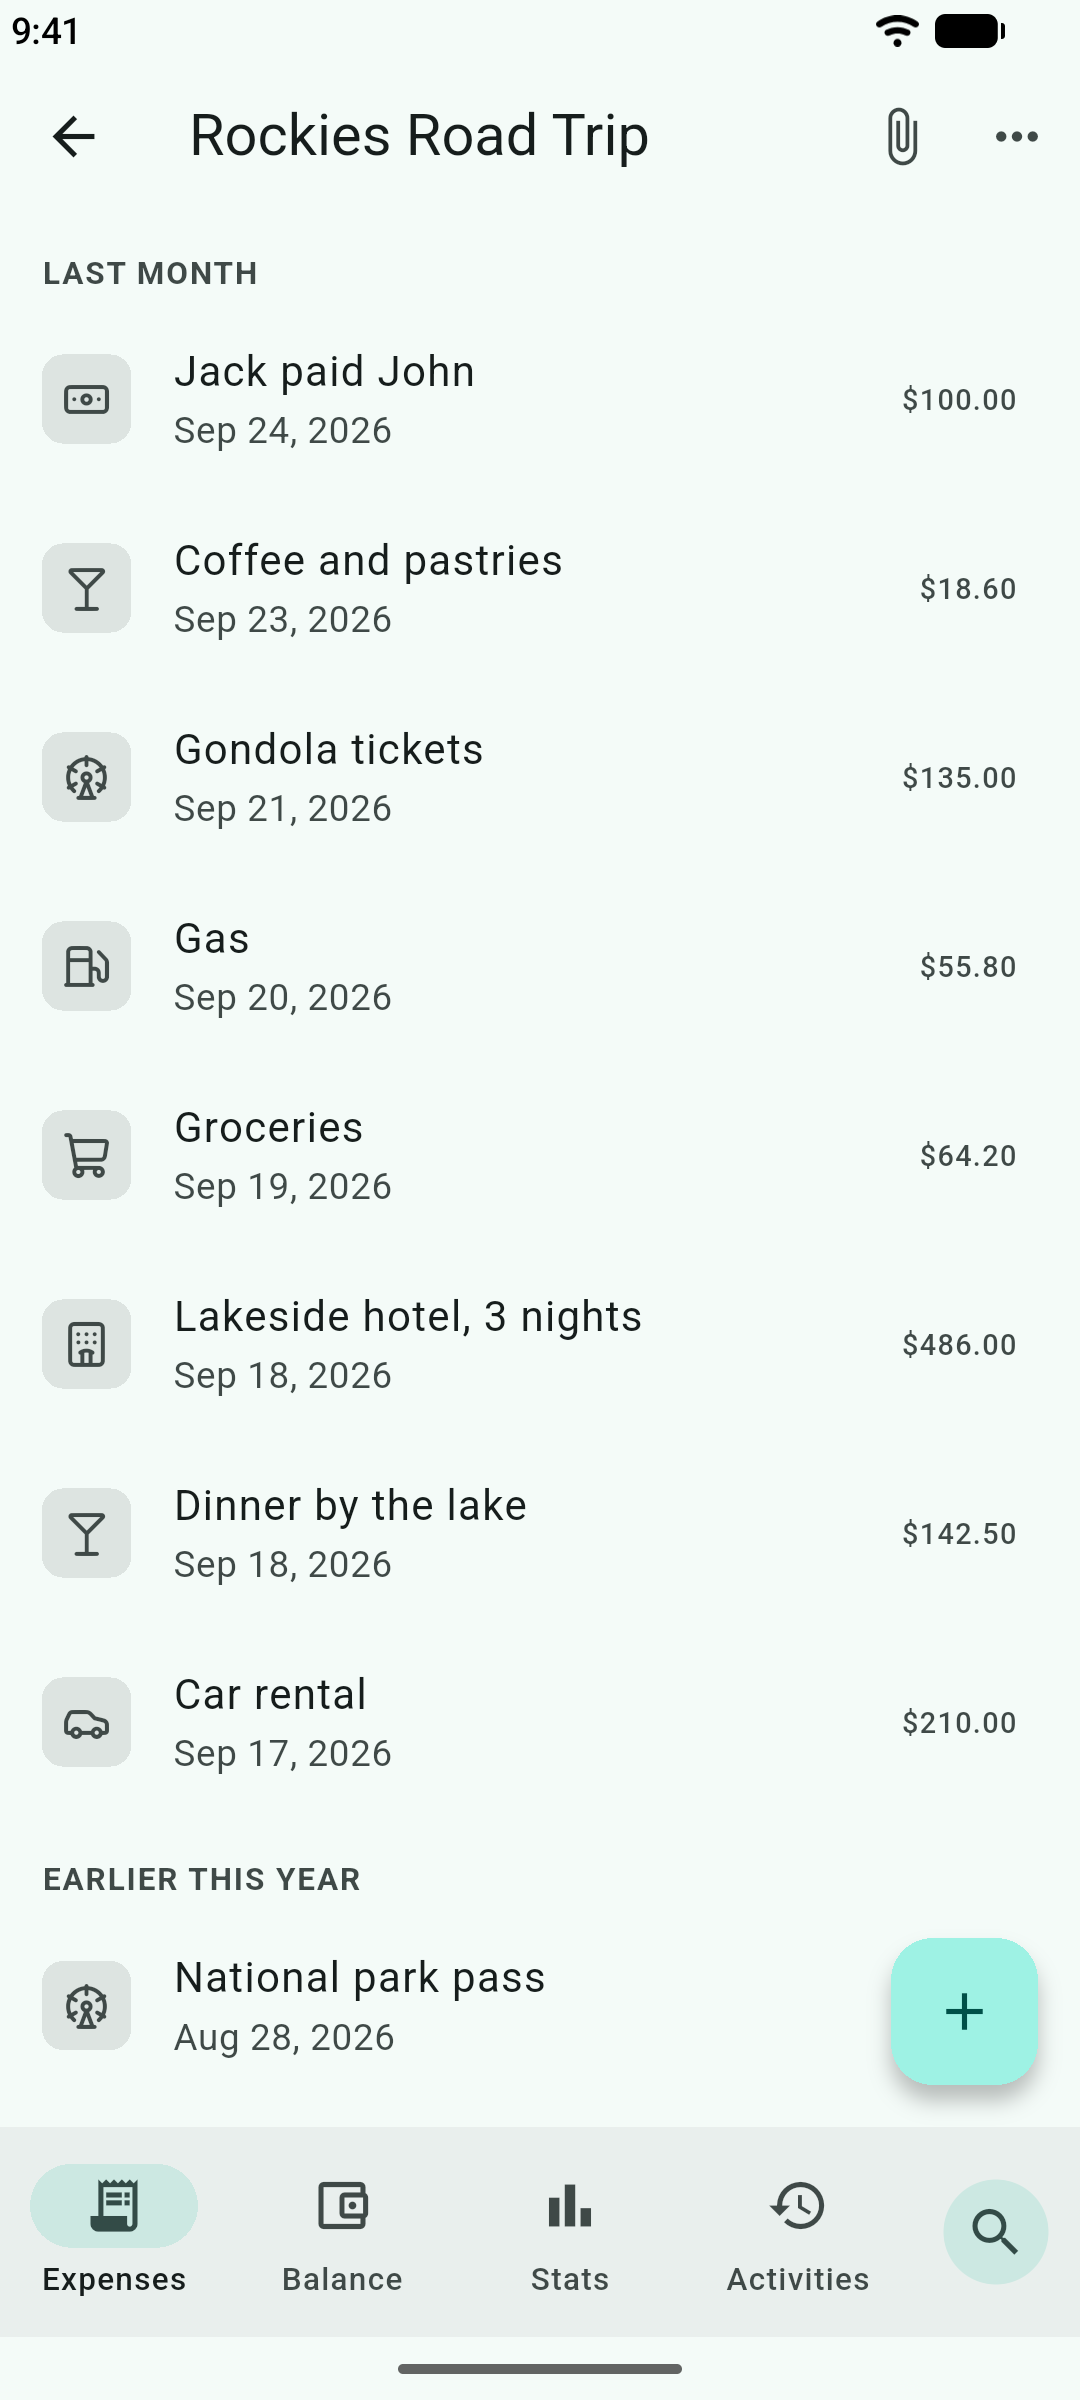
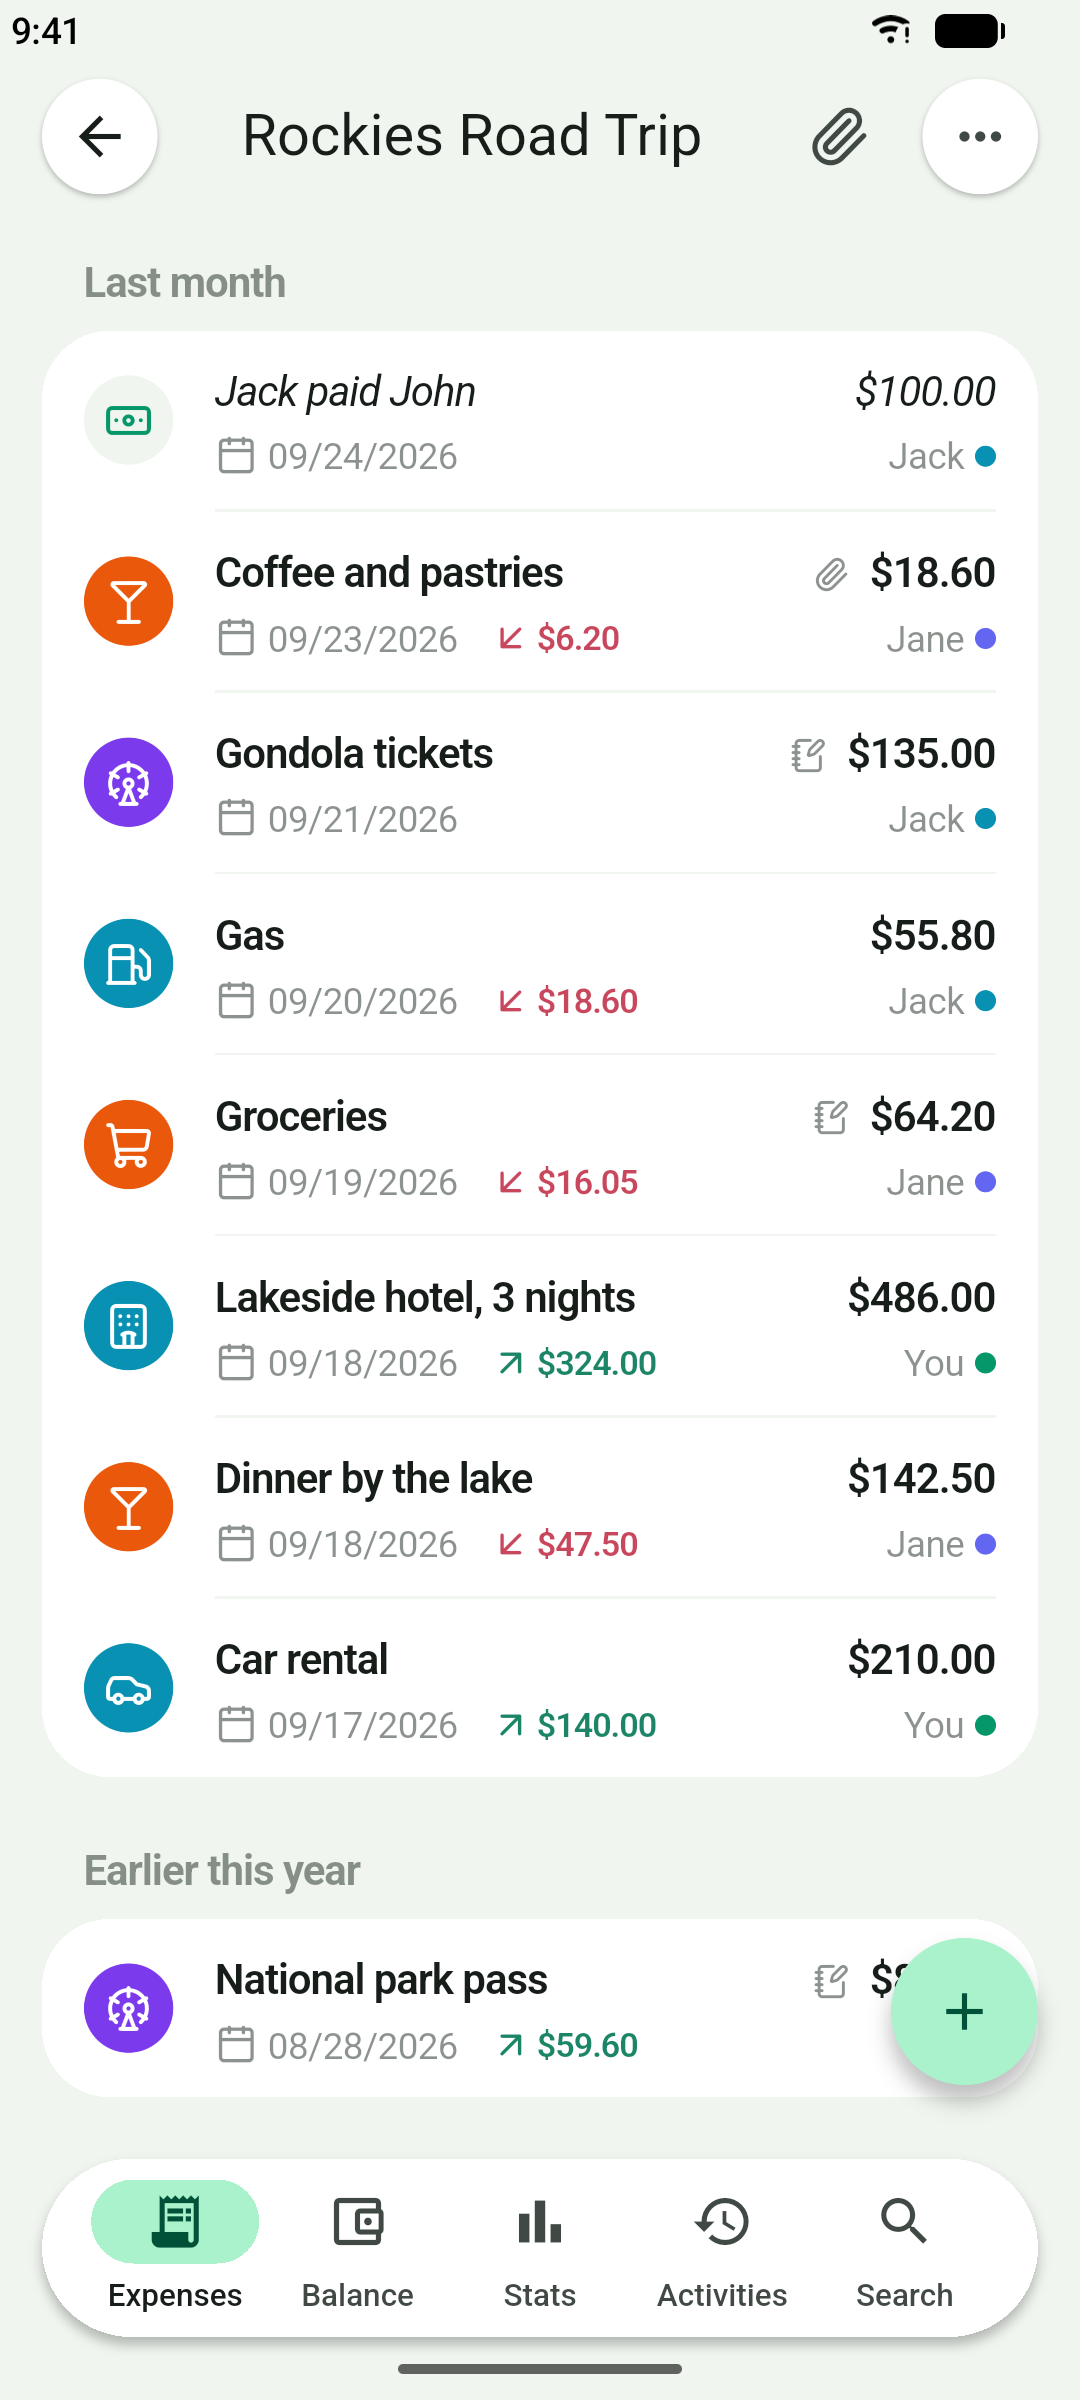
Play screenshots of 1.0.0's current UI
The old captures showed the first release's UI. Retaken on the emulator
from a prod profile build with the same demo groups, framed by
scripts/make_store_assets.py. The iPhone shots are unchanged.

diff --git a/branding/store/README.md b/branding/store/README.md
@@ -23,7 +23,7 @@ Only made-up data, never a real group. The app had these groups joined, all on s
 
 One group is a favorite: Rockies Road Trip on Android, Flat 4B on iPhone. The simulator reports no network to the app, so a favorite with receipts shows a red 📎 there.
 
-- **Android:** a release build on the `Medium_Phone` emulator (1080×2400), `adb exec-out screencap -p`. Demo mode gives the clean status bar: `settings put global sysui_demo_allowed 1`, then `am broadcast -a com.android.systemui.demo -e command …` with `enter`, `clock -e hhmm 0941`, `battery -e level 100 -e plugged false`, `network -e mobile hide -e wifi show -e level 4`, `notifications -e visible false`. Clear any notification first.
+- **Android:** a prod profile build (`flutter build apk --profile --flavor prod`: no debug banner, and unlike a prod release build it needs no upload key) on the `Medium_Phone` emulator (1080×2400) with gesture navigation, sorted by last expense date, `adb exec-out screencap -p`. Demo mode gives the clean status bar: `settings put global sysui_demo_allowed 1`, then `am broadcast -a com.android.systemui.demo -e command …` with `enter`, `clock -e hhmm 0941`, `battery -e level 100 -e plugged false`, `network -e mobile hide -e wifi show -e level 4`, `notifications -e visible false`. Clear any notification first.
 - **iPhone:** a prod build (`flutter build ios --simulator --debug --flavor prod`; the dev flavor is named "Spliit2Go Dev") on the iPhone 17 Pro Max simulator (1320×2868), in the Light theme, `xcrun simctl io <device> screenshot`, with `xcrun simctl status_bar <device> override --time 9:41 --batteryState charged --batteryLevel 100 --wifiBars 3 --cellularBars 4`. Simulator builds are debug builds, so set `debugShowCheckedModeBanner: false` on `MaterialApp` for the capture only; don't commit it.
 
 The add-expense shots are of an unsaved form, discarded afterwards.
